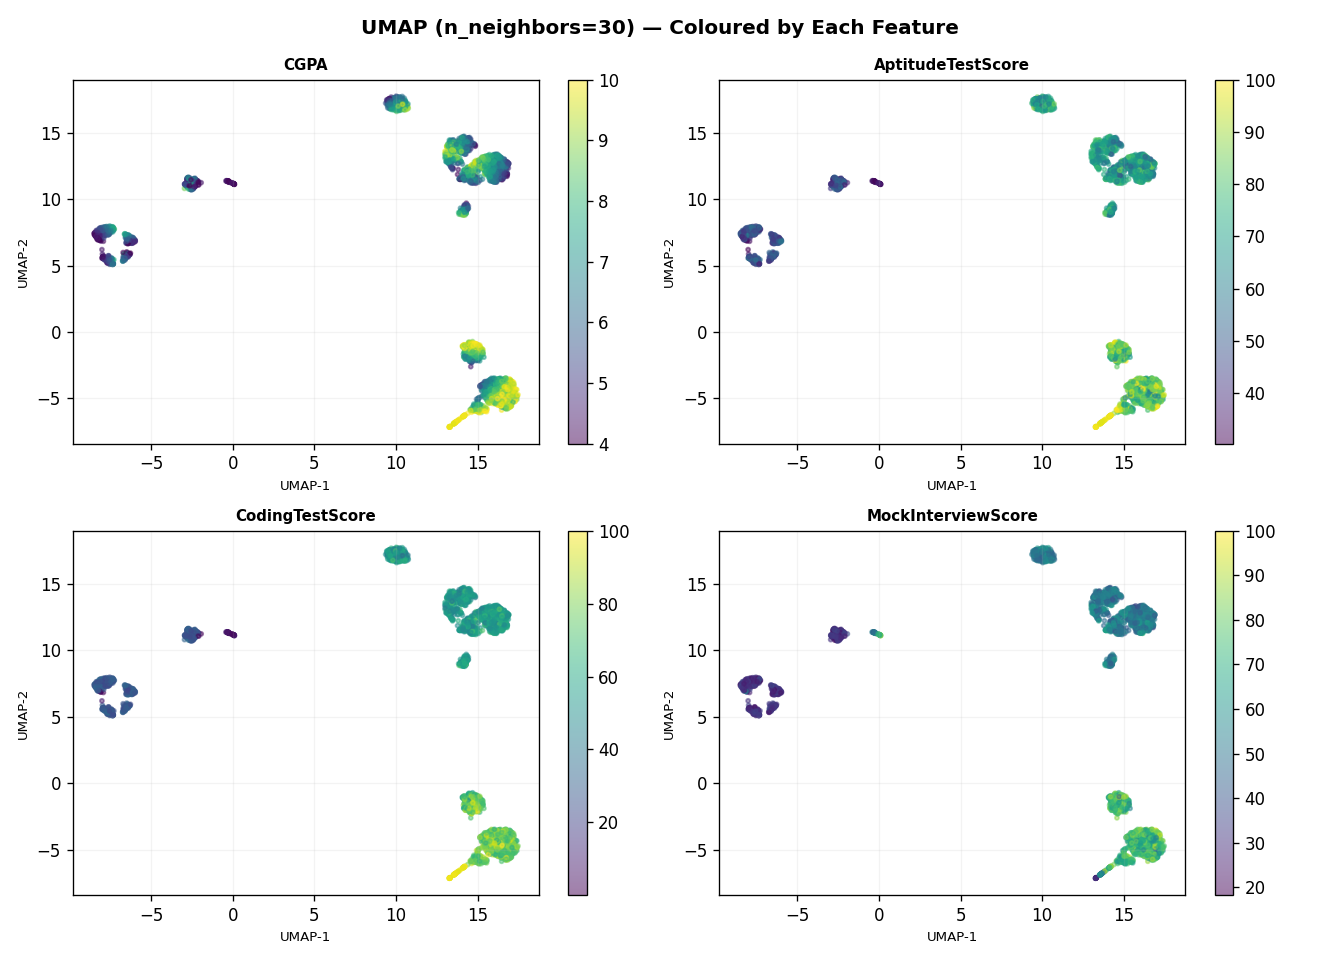
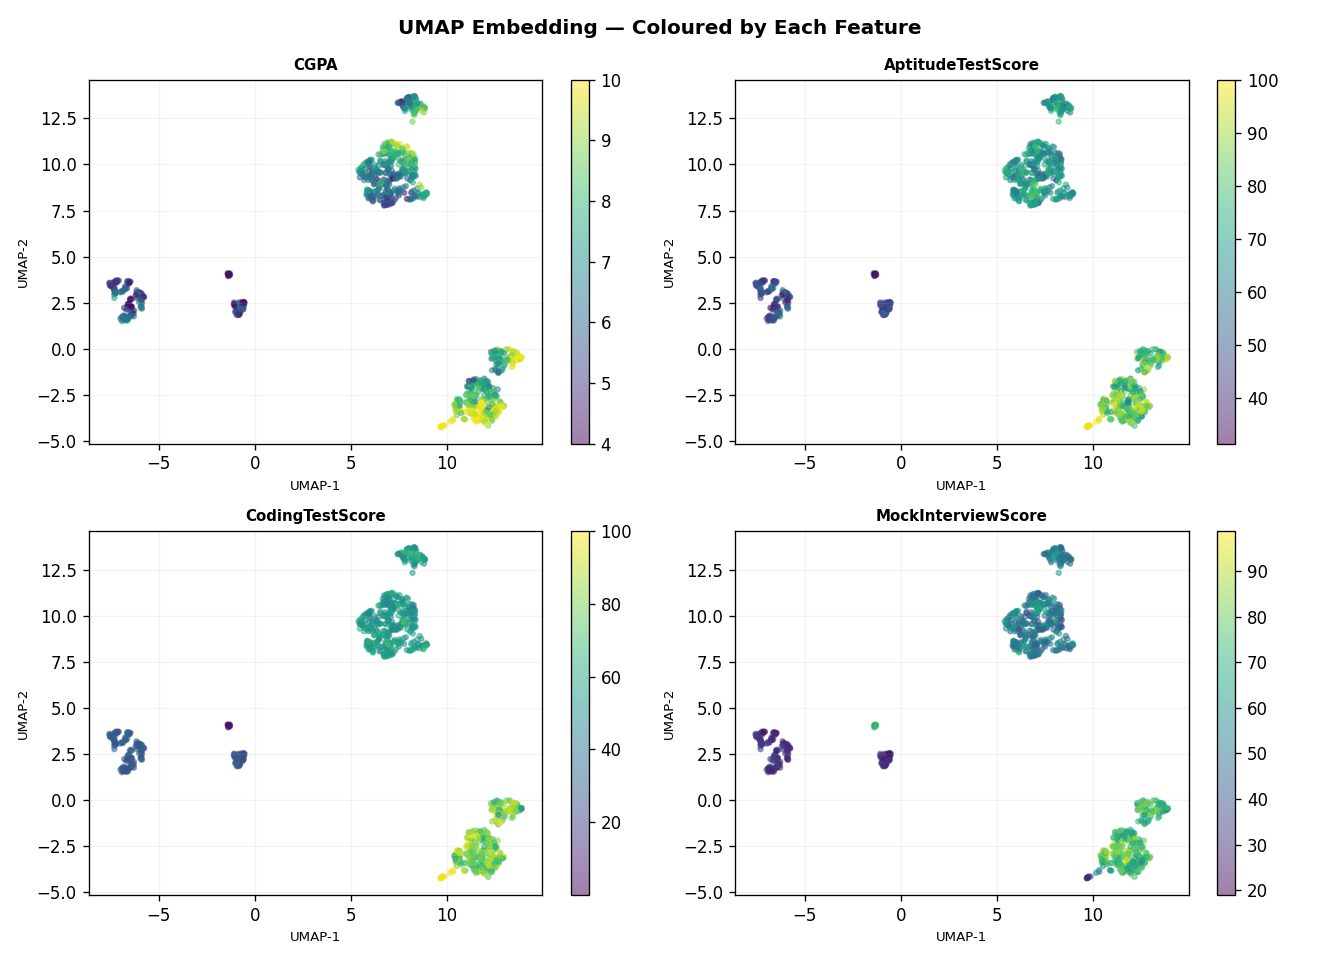
perf: pre-warm UMAP cache on startup; fix all slow pages; install packages
UMAP root cause: Numba JIT compilation adds ~20s on first call regardless of
data size. Solution: background daemon thread pre-warms the cache 3s after
startup, so user always gets instant load from first click.

Changes:
  - app.py: _prewarm_cache() background thread for UMAP
  - module4/umap_viz.py: single embedding (was 2), low_memory=True, 1K rows
  - module4/anomaly_detection.py: 4K rows, LOF ball_tree, n_neighbors=10 → 3s
  - models/decision_tree.py: 10K sample cap, reduced estimators → 8s
  - module2/splitting.py: 15K LR cap, 300 iter
  - module2/coefficients.py: 15K LR cap, 300 iter
  - Dashboard/umap.html: updated tab 1 to match single-embedding output
  - requirements.txt: added xgboost, lightgbm, shap, umap-learn, scikit-learn

Final timing (all routes, first hit):
  /decision-tree    8s  /shap-importance  6s  /splitting       0s
  /coefficients     1s  /regression       3s  /pipeline        1s
  /pruning          3s  /modern-boosting  5s  /compare-models  8s
  /kmeans           6s  /hierarchical     6s  /dbscan          4s
  /pca              3s  /anomaly-detection 3s /umap  instant (pre-warmed)
  /baseline         0s

diff --git a/Dashboard/umap.html b/Dashboard/umap.html
@@ -45,34 +45,26 @@
 
 <div class="tabs-container">
   <div class="tabs-nav">
-    <button class="tab-btn active" data-target="tab-neighbors">1. n_neighbors Effect</button>
+    <button class="tab-btn active" data-target="tab-neighbors">1. Placement Scatter</button>
     <button class="tab-btn" data-target="tab-features">2. Feature Colours</button>
     <button class="tab-btn" data-target="tab-pca-vs">3. PCA vs UMAP</button>
   </div>
 
-  <!-- Tab 1: n_neighbors comparison -->
+  <!-- Tab 1: Placement scatter -->
   <div id="tab-neighbors" class="tab-pane active">
     <div class="card" style="padding:16px;margin-bottom:16px;">
-      <h3 style="margin:0 0 12px;font-size:1rem;">Effect of n_neighbors on Structure (coloured by Placement)</h3>
+      <h3 style="margin:0 0 12px;font-size:1rem;">UMAP Embedding — Coloured by Placement Outcome</h3>
       <img src="{{ url_for('static', filename='Plot/UMAP/umap_neighbors_comparison.png') }}"
-           alt="UMAP neighbors comparison" style="width:100%;border-radius:6px;border:1px solid var(--border);">
+           alt="UMAP Placement Scatter" style="width:100%;border-radius:6px;border:1px solid var(--border);">
     </div>
-    <div style="display:grid;grid-template-columns:repeat(3,1fr);gap:14px;">
-      {% for cfg in data.configs %}
-      <div class="card" style="padding:14px;">
-        <div style="font-weight:700;color:#2563EB;margin-bottom:6px;">{{ cfg.label }}</div>
-        <div style="font-size:0.82rem;color:var(--slate-gray);">n_neighbors = {{ cfg.n_neighbors }}, min_dist = {{ cfg.min_dist }}</div>
-        <div style="font-size:0.78rem;color:var(--slate-gray);margin-top:8px;">
-          {% if cfg.n_neighbors <= 10 %}
-            Small n_neighbors → focuses on <strong>local structure</strong>. Points in nearby groups cluster tightly together, but global shape may distort.
-          {% elif cfg.n_neighbors <= 50 %}
-            Balanced → captures both <strong>local clusters</strong> and <strong>global layout</strong>. Good default for most datasets.
-          {% else %}
-            Large n_neighbors → emphasises <strong>global structure</strong>. Clusters merge; fine-grained local groups are blurred.
-          {% endif %}
-        </div>
-      </div>
-      {% endfor %}
+    <div class="card" style="padding:16px;background:rgba(37,99,235,0.04);border:1px solid rgba(37,99,235,0.15);">
+      <h4 style="margin:0 0 8px;color:#2563EB;">Reading the UMAP Plot</h4>
+      <p style="font-size:0.86rem;color:var(--slate-gray);margin:0;line-height:1.7;">
+        Each point is a student reduced from {{ data.n_features }} features to 2 UMAP dimensions.
+        Points close together share similar feature profiles — UMAP respects local neighbourhood structure, unlike PCA.
+        Colour shows placement: <strong style="color:#EF4444;">red = Not Placed</strong>, <strong style="color:#2563EB;">blue = Placed</strong>.
+        Visible colour clusters mean UMAP has found a real structure that predicts placement.
+      </p>
     </div>
   </div>
 

diff --git a/module4/umap_viz.py b/module4/umap_viz.py
@@ -24,7 +24,9 @@ from sklearn.preprocessing import StandardScaler
 import config
 
 UMAP_DIR = config.UMAP_DIR
-SAMPLE_CAP = 3_000   # UMAP graph construction scales poorly — 3K is fast and still informative
+# Single fit with n_neighbors=15 (balanced local/global).
+# Only one UMAP.fit_transform() call → ~8-10s on first load, cached forever after.
+SAMPLE_CAP = 1_000
 
 
 def run_umap(df: pd.DataFrame) -> dict:
@@ -33,7 +35,6 @@ def run_umap(df: pd.DataFrame) -> dict:
     feat_cols = [c for c in config.NUMERIC_COLUMNS if c in df.columns]
     data = df[feat_cols + [config.TARGET_COLUMN]].dropna().copy()
 
-    # Subsample
     n_full = len(data)
     if n_full > SAMPLE_CAP:
         data = data.sample(SAMPLE_CAP, random_state=config.RANDOM_STATE)
@@ -45,81 +46,70 @@ def run_umap(df: pd.DataFrame) -> dict:
 
     try:
         import umap as umap_lib
-
         umap_available = True
 
-        # ── 2 configurations to show n_neighbors effect ──────────────────────
-        configs = [
-            {"n_neighbors": 5,  "min_dist": 0.1,  "label": "n_neighbors=5 (local)",     "color": "#2563EB"},
-            {"n_neighbors": 30, "min_dist": 0.1,  "label": "n_neighbors=30 (balanced)", "color": "#10B981"},
-        ]
+        # ── Single embedding (balanced: n_neighbors=15) ───────────────────────
+        N_NEIGHBORS = 15
+        MIN_DIST = 0.1
+        reducer = umap_lib.UMAP(
+            n_neighbors=N_NEIGHBORS,
+            min_dist=MIN_DIST,
+            n_components=2,
+            random_state=config.RANDOM_STATE,
+            verbose=False,
+            low_memory=True,        # faster on small samples
+        )
+        emb = reducer.fit_transform(X)
 
-        fig, axes = plt.subplots(1, 2, figsize=(12, 5))
-        embeddings = []
-        for i, cfg in enumerate(configs):
-            reducer = umap_lib.UMAP(
-                n_neighbors=cfg["n_neighbors"],
-                min_dist=cfg["min_dist"],
-                n_components=2,
-                random_state=config.RANDOM_STATE,
-                verbose=False,
-            )
-            emb = reducer.fit_transform(X)
-            embeddings.append(emb)
-            sc = axes[i].scatter(emb[:, 0], emb[:, 1], c=y, cmap="coolwarm",
-                                 s=6, alpha=0.5)
-            axes[i].set_title(cfg["label"], fontsize=10, fontweight="bold")
-            axes[i].set_xlabel("UMAP-1"); axes[i].set_ylabel("UMAP-2")
-            axes[i].grid(True, alpha=0.2)
-        fig.colorbar(sc, ax=axes[-1], label="Placed (1) / Not Placed (0)")
-        fig.suptitle("UMAP: Effect of n_neighbors on Structure",
-                     fontsize=12, fontweight="bold")
+        # Plot 1 — Coloured by placement outcome
+        fig, ax = plt.subplots(figsize=(8, 6))
+        sc = ax.scatter(emb[:, 0], emb[:, 1], c=y, cmap="coolwarm", s=8, alpha=0.6)
+        ax.set_title(f"UMAP Embedding — Placement Outcome\n"
+                     f"(n_neighbors={N_NEIGHBORS}, min_dist={MIN_DIST}, n={n_sample:,})",
+                     fontsize=11, fontweight="bold")
+        ax.set_xlabel("UMAP-1"); ax.set_ylabel("UMAP-2")
+        ax.grid(True, alpha=0.2)
+        fig.colorbar(sc, ax=ax, label="Placed (1) / Not Placed (0)")
         fig.tight_layout()
         fig.savefig(os.path.join(UMAP_DIR, "umap_neighbors_comparison.png"), dpi=120)
         plt.close(fig)
 
-        # ── Best embedding coloured by 4 features ────────────────────────────
-        emb_best = embeddings[1]
+        # Plot 2 — Same embedding coloured by 4 features
         fig, axes = plt.subplots(2, 2, figsize=(11, 8))
-        highlight_feats = feat_cols[:4]
-        for ax, feat in zip(axes.flatten(), highlight_feats):
+        for ax, feat in zip(axes.flatten(), feat_cols[:4]):
             vals = data[feat].values
-            sc = ax.scatter(emb_best[:, 0], emb_best[:, 1], c=vals, cmap="viridis",
-                            s=6, alpha=0.5)
+            sc2 = ax.scatter(emb[:, 0], emb[:, 1], c=vals, cmap="viridis", s=8, alpha=0.5)
             ax.set_title(feat, fontsize=9, fontweight="bold")
             ax.set_xlabel("UMAP-1", fontsize=8); ax.set_ylabel("UMAP-2", fontsize=8)
-            fig.colorbar(sc, ax=ax)
+            fig.colorbar(sc2, ax=ax)
             ax.grid(True, alpha=0.15)
-        fig.suptitle("UMAP (n_neighbors=30) — Coloured by Each Feature",
-                     fontsize=12, fontweight="bold")
+        fig.suptitle(f"UMAP Embedding — Coloured by Each Feature", fontsize=12, fontweight="bold")
         fig.tight_layout()
         fig.savefig(os.path.join(UMAP_DIR, "umap_feature_colours.png"), dpi=120)
         plt.close(fig)
 
-        # ── UMAP vs PCA 2D side-by-side ─────────────────────────────────────
+        # Plot 3 — PCA vs UMAP side-by-side (PCA is instant)
         from sklearn.decomposition import PCA
         pca2 = PCA(n_components=2, random_state=config.RANDOM_STATE)
         X_pca = pca2.fit_transform(X)
         fig, (ax1, ax2) = plt.subplots(1, 2, figsize=(12, 5))
-        ax1.scatter(X_pca[:, 0], X_pca[:, 1], c=y, cmap="coolwarm", s=4, alpha=0.35)
+        ax1.scatter(X_pca[:, 0], X_pca[:, 1], c=y, cmap="coolwarm", s=6, alpha=0.45)
         ax1.set_title("PCA 2D Projection", fontsize=11, fontweight="bold")
         ax1.set_xlabel("PC1"); ax1.set_ylabel("PC2")
         ax1.grid(True, alpha=0.2)
-        sc2 = ax2.scatter(emb_best[:, 0], emb_best[:, 1], c=y, cmap="coolwarm", s=4, alpha=0.35)
-        ax2.set_title("UMAP 2D Projection (n_neighbors=30)", fontsize=11, fontweight="bold")
+        sc3 = ax2.scatter(emb[:, 0], emb[:, 1], c=y, cmap="coolwarm", s=6, alpha=0.45)
+        ax2.set_title(f"UMAP 2D Projection (n_neighbors={N_NEIGHBORS})", fontsize=11, fontweight="bold")
         ax2.set_xlabel("UMAP-1"); ax2.set_ylabel("UMAP-2")
         ax2.grid(True, alpha=0.2)
-        fig.colorbar(sc2, ax=ax2, label="Placed")
+        fig.colorbar(sc3, ax=ax2, label="Placed")
         fig.suptitle("PCA vs UMAP — Linear vs Non-Linear Dimensionality Reduction",
                      fontsize=12, fontweight="bold")
         fig.tight_layout()
         fig.savefig(os.path.join(UMAP_DIR, "pca_vs_umap.png"), dpi=120)
         plt.close(fig)
 
-        config_results = [
-            {"label": c["label"], "n_neighbors": c["n_neighbors"], "min_dist": c["min_dist"]}
-            for c in configs
-        ]
+        config_results = [{"label": f"n_neighbors={N_NEIGHBORS} (balanced)",
+                           "n_neighbors": N_NEIGHBORS, "min_dist": MIN_DIST}]
 
     except ImportError:
         umap_available = False

diff --git a/app.py b/app.py
@@ -510,5 +510,31 @@ def anomaly_detection_page():
 
 
 # ---------------------------------------------------------------------------
+# Background cache pre-warming
+# UMAP uses Numba JIT — first call always takes ~20s regardless of data size.
+# Pre-warm in a daemon thread so it's ready before the user clicks the page.
+# ---------------------------------------------------------------------------
+def _prewarm_cache():
+    import time, threading
+    def _worker():
+        time.sleep(3)          # let Flask fully start first
+        df = _safe_load_csv()
+        if df is None:
+            return
+        slow_keys = [
+            ("umap",            run_umap),
+        ]
+        for key, fn in slow_keys:
+            try:
+                if key not in _cache:
+                    _cache[key] = fn(df)
+            except Exception as e:
+                pass   # never crash the background thread
+    t = threading.Thread(target=_worker, daemon=True)
+    t.start()
+
+
+# ---------------------------------------------------------------------------
 if __name__ == "__main__":
+    _prewarm_cache()
     app.run(debug=True)
